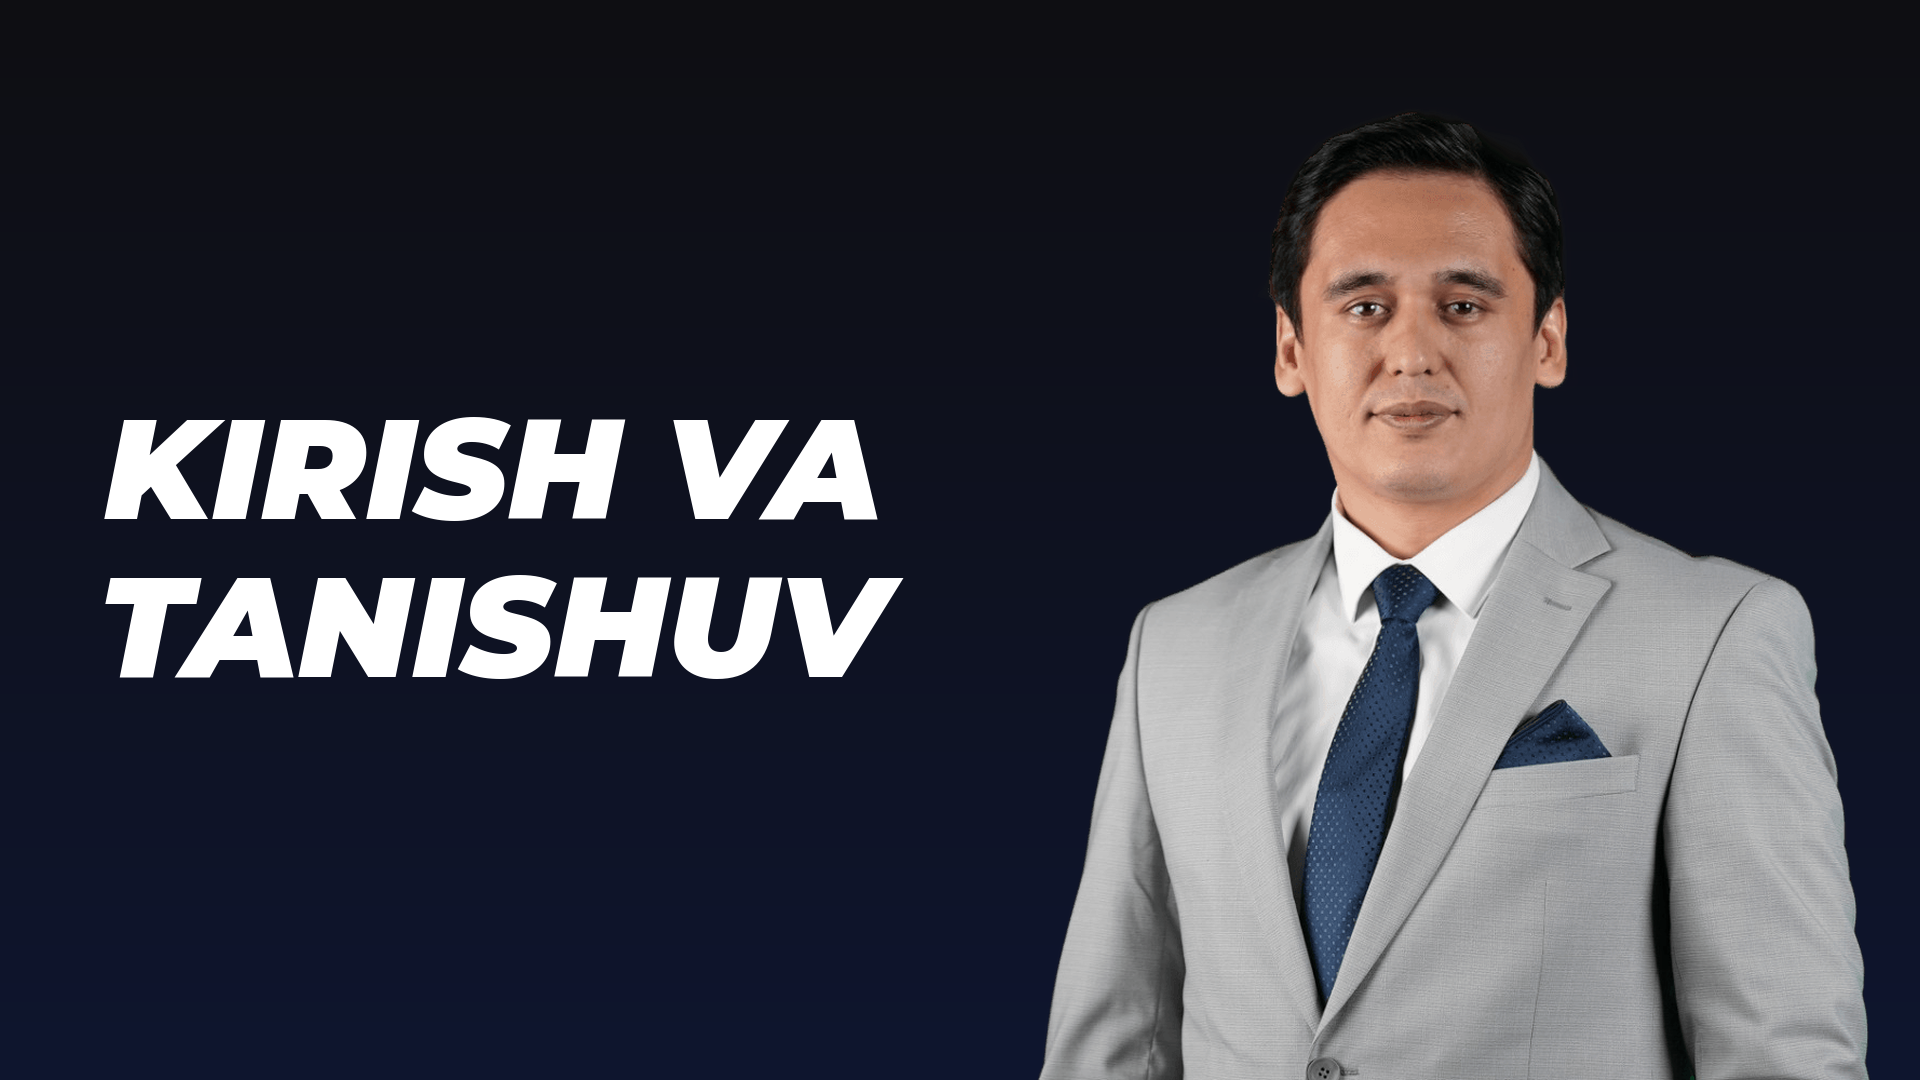
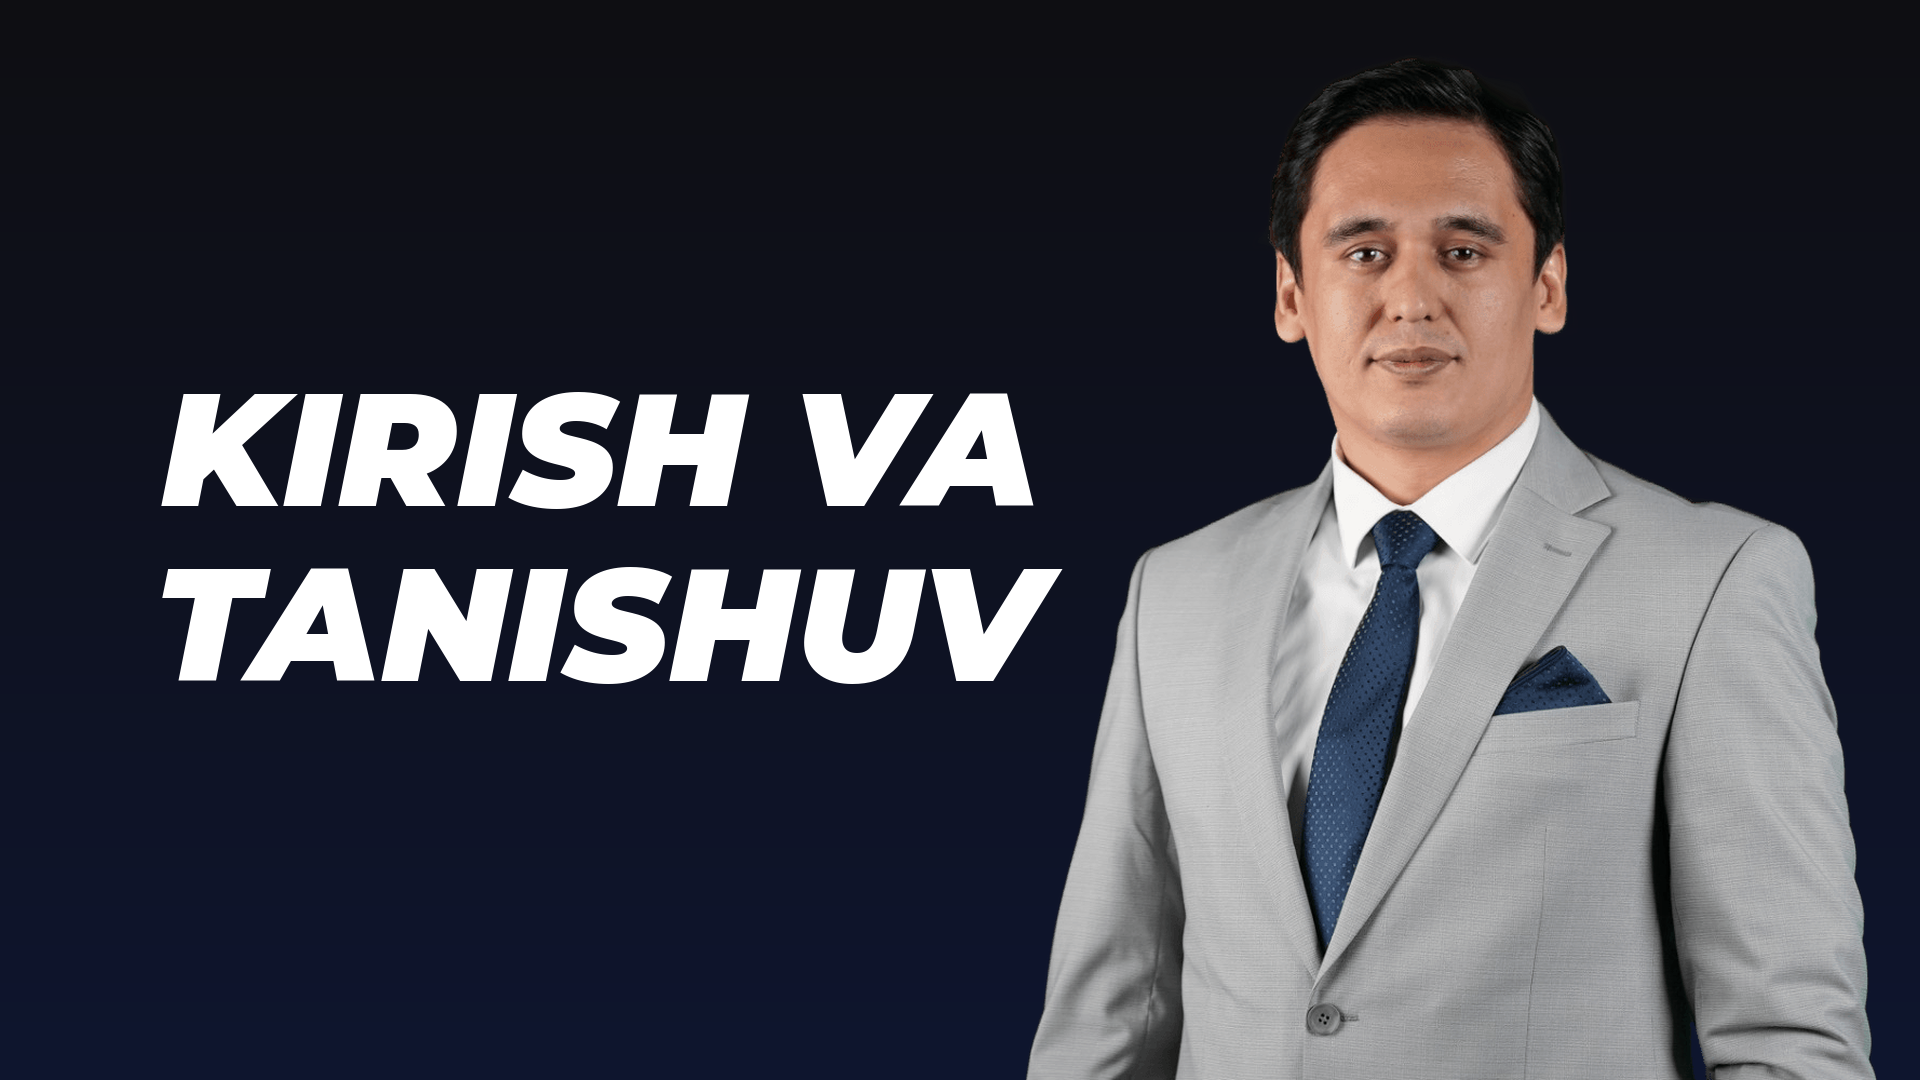
1-dars oblojkasi: spiker ko'tarildi, matn kattalashtirildi
Claude-Session: https://claude.ai/code/session_01MnVYm2tC76KAA1Eter6suD

diff --git a/dizayn/oblojka_yasash.py b/dizayn/oblojka_yasash.py
@@ -8,16 +8,23 @@ top,bot=(14,14,18),(14,21,46)
 bg=Image.new("RGB",(W,H)); d=ImageDraw.Draw(bg)
 for y in range(H):
     t=y/(H-1); d.line([(0,y),(W,y)],fill=tuple(round(a+(b-a)*t) for a,b in zip(top,bot)))
-p=Image.open("spiker2.png").convert("RGBA").crop((0,CUT_TOP,1125,CUT_BOT))
+p=Image.open("spiker2.png").convert("RGBA")
+px=p.load()
+for yy in range(p.height):            # o'simlikdan qolgan yashil qoldiqlarni tozalash
+    for xx in range(p.width):
+        r,g,b,a=px[xx,yy]
+        if a and g>r+25 and g>b+20: px[xx,yy]=(r,g,b,0)
+p=p.crop((0,CUT_TOP,1125,CUT_BOT))
 s=H/p.height; p=p.resize((round(p.width*s),H),Image.LANCZOS)
 x0=W-p.width+round(60*s)   # o'ng chetga yaqinroq
 bg.paste(p,(x0,0),p)
 d=ImageDraw.Draw(bg)
-area_w=x0+round(200*s)      # chap matn maydoni (spikerning chap chetigacha)
-size=165; font=ImageFont.truetype(FONT,size)
-while max(d.textlength(l,font=font) for l in lines)>area_w-180:
+CX=600                       # matn markazi (gorizontal)
+maxw=2*(x0+round(260*s)-CX)  # spikerga tegmasin
+size=215; font=ImageFont.truetype(FONT,size)
+while max(d.textlength(l,font=font) for l in lines)>maxw:
     size-=4; font=ImageFont.truetype(FONT,size)
-lh=size*1.12; y=(H-lh*len(lines))/2
+lh=size*1.1; y=(H-lh*len(lines))/2-size*0.08
 for l in lines:
-    w=d.textlength(l,font=font); d.text(((area_w-w)/2,y),l,font=font,fill="white"); y+=lh
+    w=d.textlength(l,font=font); d.text((CX-w/2,y),l,font=font,fill="white"); y+=lh
 bg.save(out)
